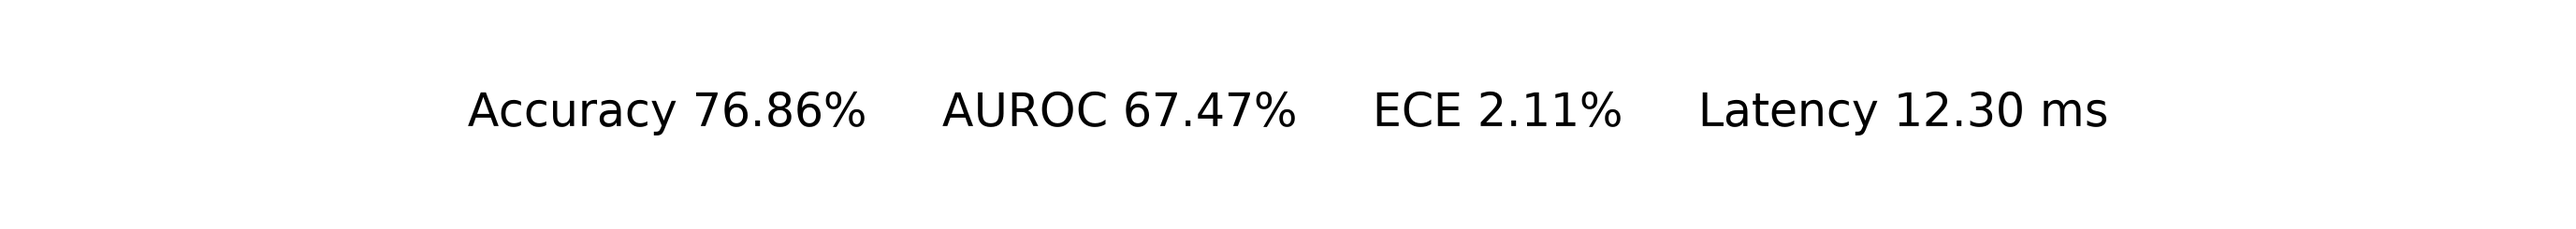
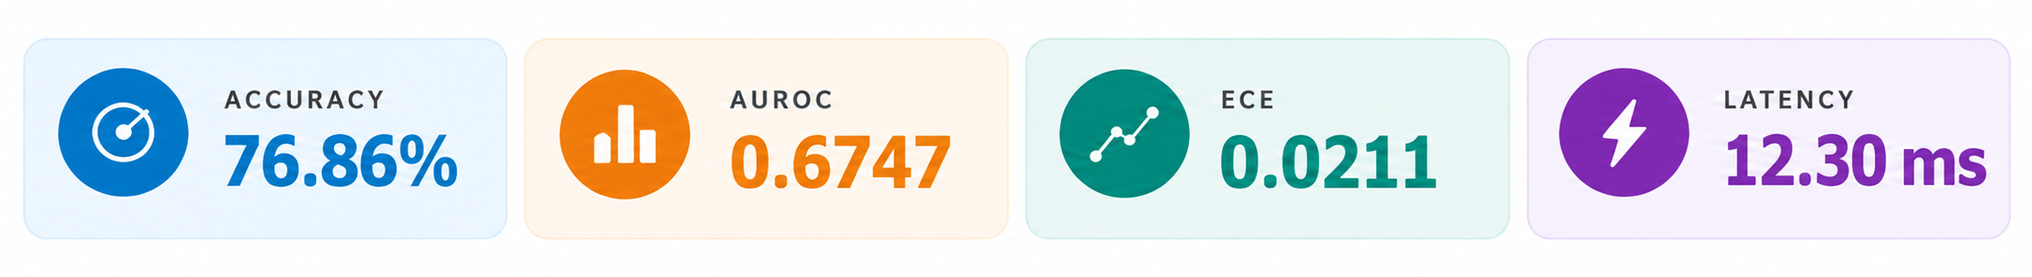
Publish verified private model and supplied headline results graphic

diff --git a/README.md b/README.md
@@ -2,7 +2,11 @@
 
 A non-autoregressive System 1 decision model for physiological signals.
 
+![Headline results](docs/figures/system.png)
+
 The selected model combines frozen signal/text encoders with a trained MLP fusion head. It scores supplied candidates directly and returns the selected choice, confidence and candidate probabilities.
+
+C:\jev\paya\docs\figures\per-task.png
 
 ## Use
 
